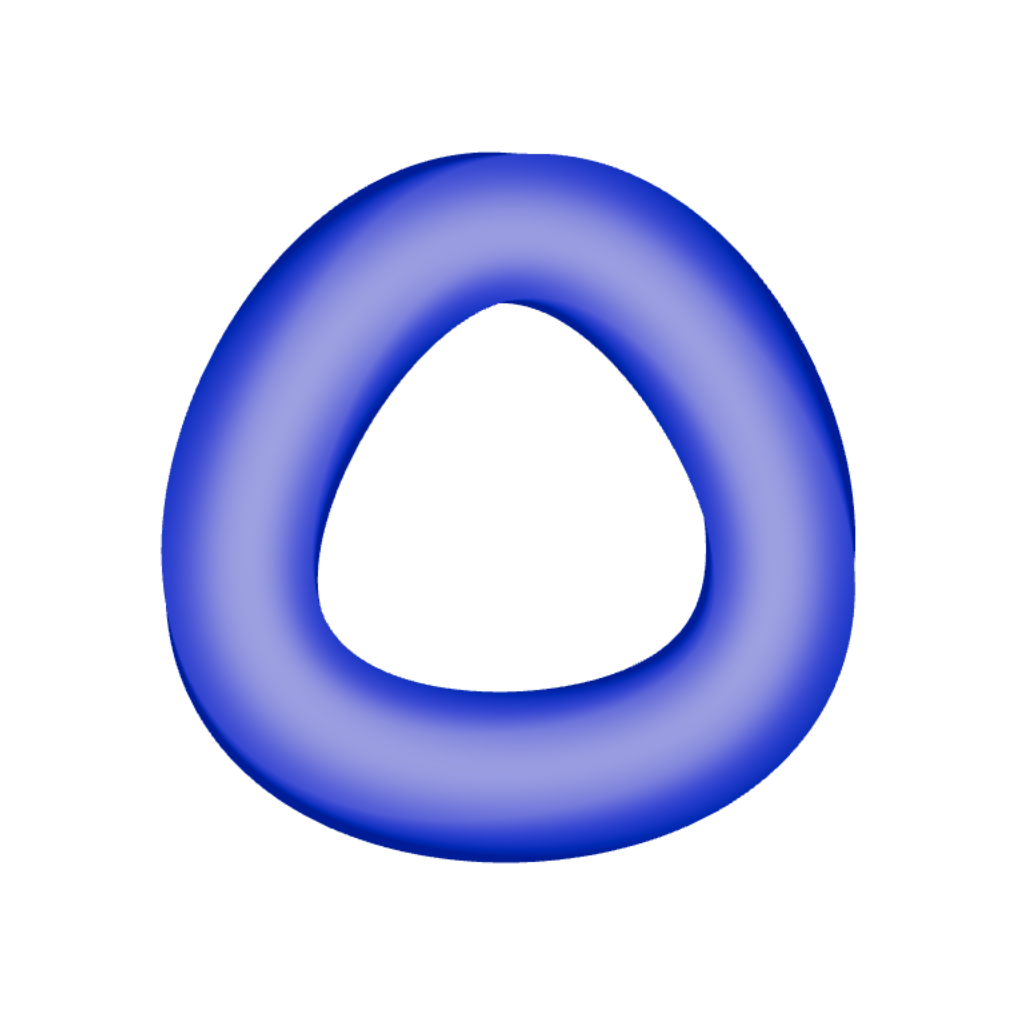
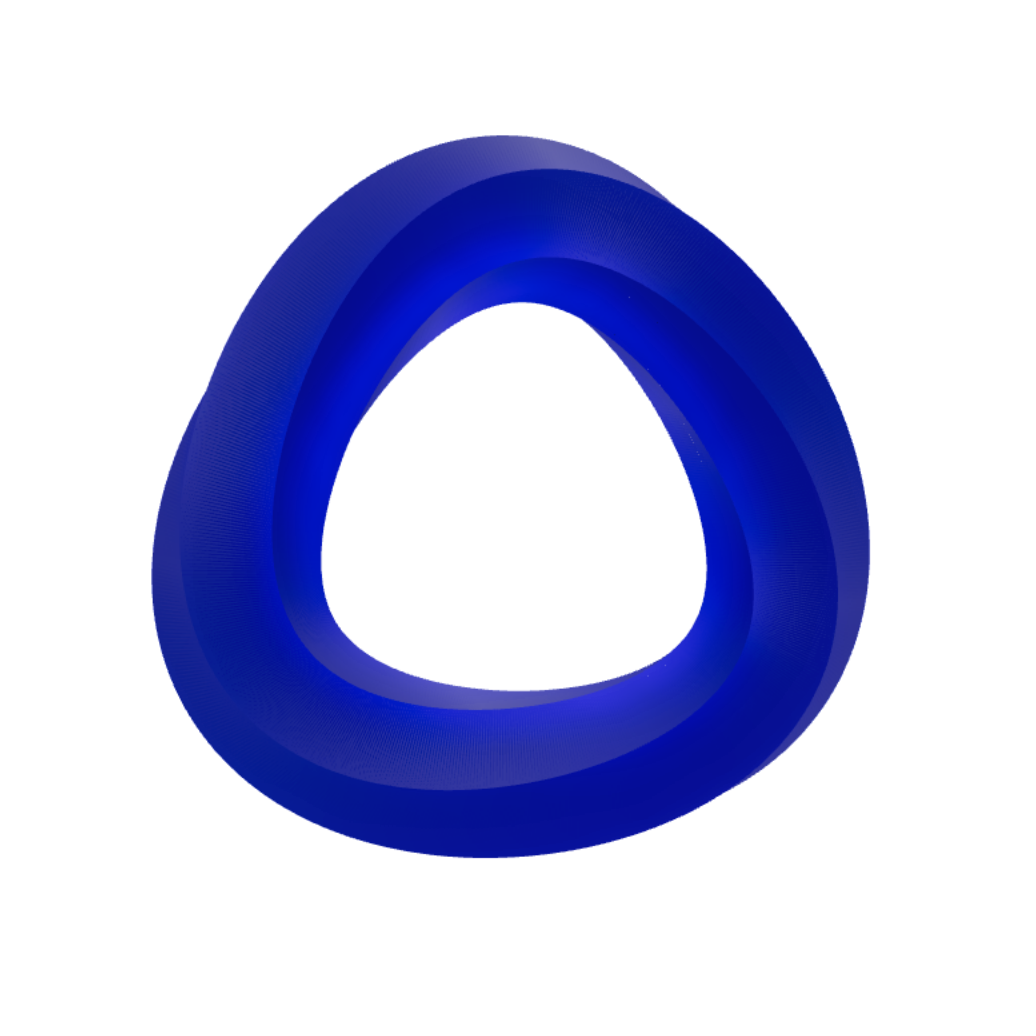
Use the glass möbius (not lite) for the static fallback image
Turns out the software sandbox does render the glass — it just lacks true
refraction — so the captured image is a rich deep-cobalt möbius, far closer
to the real glass than the lite ring. Re-rendered the fallback from the glass
material on a transparent background; reads cleanly on both themes.

Claude-Session: https://claude.ai/code/session_01DJhokvZCecuiq3oVFRH1Zv

Changed region(s): [[0.1236, 0.1236, 0.8649, 0.834]]

diff --git a/CONTEXT.md b/CONTEXT.md
@@ -36,13 +36,13 @@ lib/motion.ts    entrance timing tokens (the reveal itself is CSS)
   fidelity knobs (transmission resolution, dpr cap, fps). Same glass *look* on every
   real GPU — only the internals scale. See `capability.ts`.
 - **Lite** — the cheap fresnel-emissive material (`useMobiusMaterialLite`): no
-  transmission / inner mesh / env. It's how the **static fallback image** is
-  pre-rendered, and is reachable live via `?lite` / the tuner — but production
-  low-power devices get the static image, not a live lite canvas.
+  transmission / inner mesh / env. Reachable live via `?lite` / the tuner. Kept as a
+  cheap alternate look, though it's no longer the production low-power fallback.
 - **Static fallback** — on devices with no real GPU (software rasterizers / no
   WebGL), the live canvas never mounts; `MobiusFallback` shows a pre-rendered PNG
-  (`/mobius-fallback.png`) in the hero band instead — zero three.js, no render loop.
-  `resolveMobiusMode()` decides canvas vs static (see `capability.ts`).
+  (`/mobius-fallback.png`, the **glass** möbius on transparent) in the hero band
+  instead — zero three.js, no render loop. `resolveMobiusMode()` decides canvas vs
+  static (see `capability.ts`).
 - **Active** — a render-gate from an IntersectionObserver; when false, nothing
   renders (the hero is offscreen).
 - **Entrance** — warm-up frames (absorb the first-render hitch) then a CSS opacity

diff --git a/README.md b/README.md
@@ -64,5 +64,5 @@ so the same glass look runs on every device with a real GPU, scaling only fideli
   the hero band instead — zero three.js, no render loop
 
 Force a path for testing on a given device with `?glass`, `?glasslow`, or `?lite`
-(these always mount the live canvas). The static image is pre-rendered from the
-`lite` material; regenerate it if that material changes.
+(these always mount the live canvas). The static image is a pre-rendered capture of
+the glass möbius on a transparent background; regenerate it if the look changes.